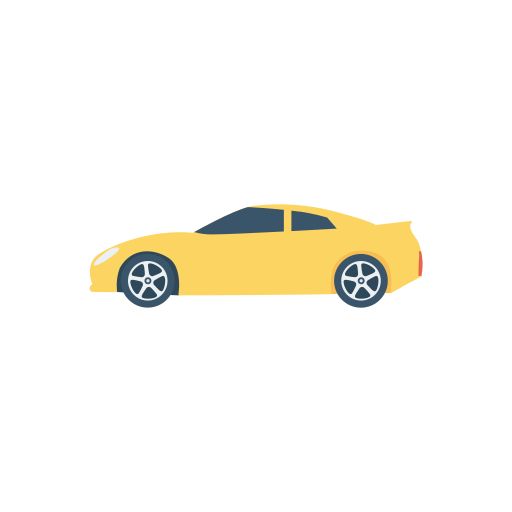
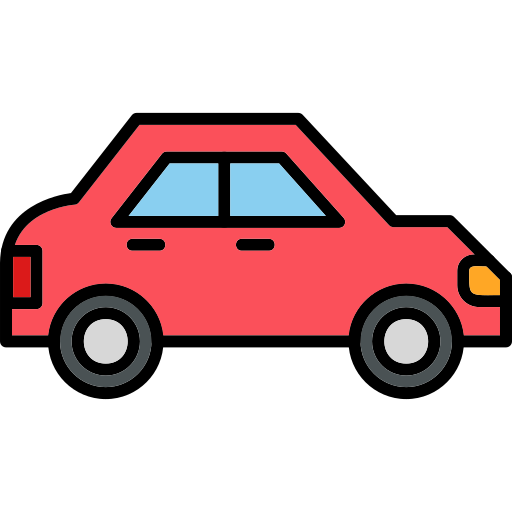
fix: increase bottom padding in classifieds screen and update vehicle category assets

diff --git a/lib/presentation/home/widgets/category_grid.dart b/lib/presentation/home/widgets/category_grid.dart
@@ -24,7 +24,7 @@ final List<CategoryItem> pinnedCategories = [
   CategoryItem(nameBn: 'মার্কেট', descriptionBn: 'কিনুন এবং বিক্রি করুন', imagePath: 'assets/images/categories/classifieds.png', route: '/classifieds?tab=market'),
   CategoryItem(nameBn: 'প্রশ্নোত্তর', descriptionBn: 'আলোচনা এবং সহযোগিতা', imagePath: 'assets/images/categories/community.png', route: '/community'),
   CategoryItem(nameBn: 'গাড়ি', descriptionBn: 'গাড়ি কিনুন বা ভাড়া নিন', imagePath: 'assets/images/categories/vehicles.png', route: '/classifieds?tab=vehicles'),
-  CategoryItem(nameBn: 'সেবা', descriptionBn: 'সব সেবাসমূহ', imagePath: 'assets/images/categories/hellowoman.png', route: '/categories'),
+  CategoryItem(nameBn: 'বিশেষ সেবা', descriptionBn: 'সব সেবাসমূহ', imagePath: 'assets/images/categories/hellowoman.png', route: '/categories'),
   CategoryItem(nameBn: 'বিশেষজ্ঞ ডক্টর', descriptionBn: 'বিশেষজ্ঞ চিকিৎসক এবং পরামর্শ', imagePath: 'assets/images/categories/doctors.png', route: '/services/doctors'),
   CategoryItem(nameBn: 'আইন', descriptionBn: 'আইনি পরামর্শ এবং সহায়তা', imagePath: 'assets/images/categories/lawyers.png', route: '/services/lawyers'),
 ];

diff --git a/lib/presentation/classifieds/classifieds_screen.dart b/lib/presentation/classifieds/classifieds_screen.dart
@@ -798,7 +798,7 @@ class PropertiesView extends ConsumerWidget {
             );
           }
           return ListView.builder(
-            padding: const EdgeInsets.all(12),
+            padding: const EdgeInsets.only(left: 12, right: 12, top: 12, bottom: 120),
             itemCount: items.length,
             itemBuilder: (context, index) {
               final item = items[index];
@@ -978,7 +978,7 @@ class VehiclesView extends ConsumerWidget {
           );
         }
         return ListView.builder(
-          padding: const EdgeInsets.all(12),
+          padding: const EdgeInsets.only(left: 12, right: 12, top: 12, bottom: 120),
           itemCount: items.length,
           itemBuilder: (context, index) {
             final item = items[index];
@@ -1853,6 +1853,7 @@ class MarketView extends ConsumerWidget {
                     ],
                   ),
                 ),
+                const SizedBox(height: 120),
               ],
             ),
           ),
